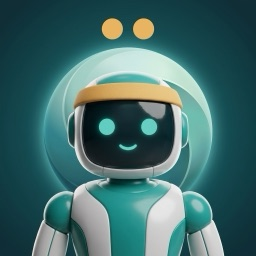
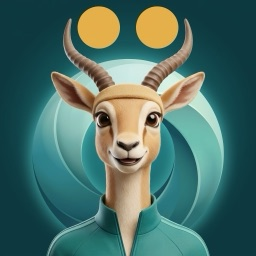
Аватары: первый набор персонажей + разная внешность и больше животных
Его итог 25.10: «верни то что сделал в самом начале и добавь разнообразие рас
и животных еще». Набор, который он назвал «уже лучше», плюс 3D-персонажи
среднеазиатской и африканской внешности и ещё по четыре животных (медведь,
волк, тигр, конь / рысь, кошка, панда, заяц). 11 на образ + общий нейтральный
по умолчанию; сетка 4×3. Всё — Gemini.

Claude-Session: https://claude.ai/code/session_01Bc3Np85Bd2kz1coA2xUgTW

diff --git a/index.html b/index.html
@@ -4071,7 +4071,7 @@ img.avface{border-radius:50%;object-fit:cover}
 .turn .who img.avface{width:24px;height:24px}
 .pqic img.pqav{width:100%;height:100%}
 .travlab{display:block;margin:16px 0 8px}
-.travgrid{display:grid;grid-template-columns:repeat(3,1fr);gap:10px}
+.travgrid{display:grid;grid-template-columns:repeat(4,1fr);gap:8px}
 .travbtn{aspect-ratio:1;min-height:44px;padding:4px;border:2px solid transparent;border-radius:50%;background:var(--field)}
 .travbtn img{display:block;width:100%;height:100%}
 .travbtn[aria-pressed="true"]{border-color:var(--accent);box-shadow:0 0 0 3px rgba(47,179,166,.25)}
@@ -8056,8 +8056,11 @@ function имяТренера(){ var me=myData()||{}; return String(me.coach_nam
    одинаковыми нейтральными персонажами и их сделай дефолтными». Пять своих на
    образ (m1…m5, f1…f5) и последний — общий нейтральный «n» (кольцо знака с
    лицом, Gemini). Не выбрано — «n» у всех, с образом и без. */
-function аватарСвой(k, пол){ return k==='n' || (/^[mf][1-5]$/.test(k||'') && k.charAt(0)===пол); }
-function аватарКод(me){ me=me||{}; var k=me.coach_av||''; if(k==='n' || (/^[mf][1-5]$/.test(k) && k.charAt(0)===(me.coach_sex||k.charAt(0)))) return k; return 'n'; }
+/* 25.10, его итог: «верни то что сделал в самом начале и добавь разнообразие рас и животных еще» —
+   11 на образ (четыре 3D-персонажа разной внешности, шесть животных, робот) и общий «n» по умолчанию */
+var АВ_НА_ОБРАЗ=11, АВ_КОД=/^[mf](?:[1-9]|1[01])$/;
+function аватарСвой(k, пол){ return k==='n' || (АВ_КОД.test(k||'') && k.charAt(0)===пол); }
+function аватарКод(me){ me=me||{}; var k=me.coach_av||''; if(k==='n' || (АВ_КОД.test(k) && k.charAt(0)===(me.coach_sex||k.charAt(0)))) return k; return 'n'; }
 function аватарТренера(me){ var k=аватарКод(me||myData()||{}); return k ? 'img/av/'+k+'.jpg' : 'img/wb-mark-128.png'; }
 function аватарHTML(src, cls){ var лицо=/\/av\//.test(src); return '<img src="'+src+'" alt=""'+(лицо?' class="avface'+(cls?' '+cls:'')+'"':(cls?' class="'+cls+'"':''))+'>'; }
 function тренерКарточкаНадо(){
@@ -8102,7 +8105,7 @@ function renderTren(){
   } else if(n===2){
     h+='<h3 class="trh" id="trh">Выберите образ тренера</h3><p class="trp">Мужчина или женщина — влияет только на то, как тренер говорит о себе: «записал» или «записала». Нормы считаются по вашей анкете.</p>'+
       '<div class="trgrid">'+[['m','Мужчина','«Записал»'],['f','Женщина','«Записала»']].map(function(x){ return '<button type="button" class="tropt" data-trsex="'+x[0]+'" aria-pressed="'+(ТР.sex===x[0])+'"><span class="trava3" style="width:56px;height:56px">'+аватарHTML('img/av/'+(ТР.sex===x[0]&&/^[mf]/.test(ТР.av)?ТР.av:x[0]+'1')+'.jpg')+'</span><b>'+x[1]+'</b><span>'+x[2]+'</span></button>'; }).join('')+'</div>'+
-      '<span class="fmlab travlab">ВЫБЕРИТЕ АВАТАР</span><div class="travgrid">'+[1,2,3,4,5].map(function(i){ return ТР.sex+i; }).concat(['n']).map(function(k, i){
+      '<span class="fmlab travlab">ВЫБЕРИТЕ АВАТАР</span><div class="travgrid">'+Array.apply(null,{length:АВ_НА_ОБРАЗ}).map(function(_, i){ return ТР.sex+(i+1); }).concat(['n']).map(function(k, i){
         return '<button type="button" class="travbtn" data-trav="'+k+'" aria-pressed="'+(ТР.av===k)+'" aria-label="Аватар '+(i+1)+'">'+аватарHTML('img/av/'+k+'.jpg')+'</button>'; }).join('')+'</div>';
   } else if(n===3){
     h+='<h3 class="trh" id="trh">Выберите характер тренера</h3><p class="trp">Ниже — как '+esc(имя)+' ответит, если вы напишете «плов 350 г».</p>'+

diff --git a/tg/test-trener-pod-sebya.js b/tg/test-trener-pod-sebya.js
@@ -37,7 +37,7 @@ const ЦЕЛЬ = { text: '75 кг к январю', wt: 'down', rate: -0.5, from
       дано(/Выберите образ тренера/.test(await лист.innerText()), тема + ': шаг 2 — образ');
       await page.click('#trenm [data-trsex="f"]');
       /* 24.10: аватар — шесть на образ, выбранный уходит в профиль и в чат */
-      дано((await page.locator('#trenm [data-trav]').count()) === 6 && (await page.getAttribute('#trenm [data-trav="n"]', 'aria-pressed')) === 'true', тема + ': пять аватаров образа и общий нейтральный — он по умолчанию');
+      дано((await page.locator('#trenm [data-trav]').count()) === 12 && (await page.getAttribute('#trenm [data-trav="n"]', 'aria-pressed')) === 'true', тема + ': 11 аватаров образа и общий нейтральный — он по умолчанию');
       await page.click('#trenm [data-trsex="m"]');
       дано((await page.getAttribute('#trenm [data-trav="n"]', 'aria-pressed')) === 'true', тема + ': нейтральный остаётся при смене образа');
       await page.click('#trenm [data-trsex="f"]');
